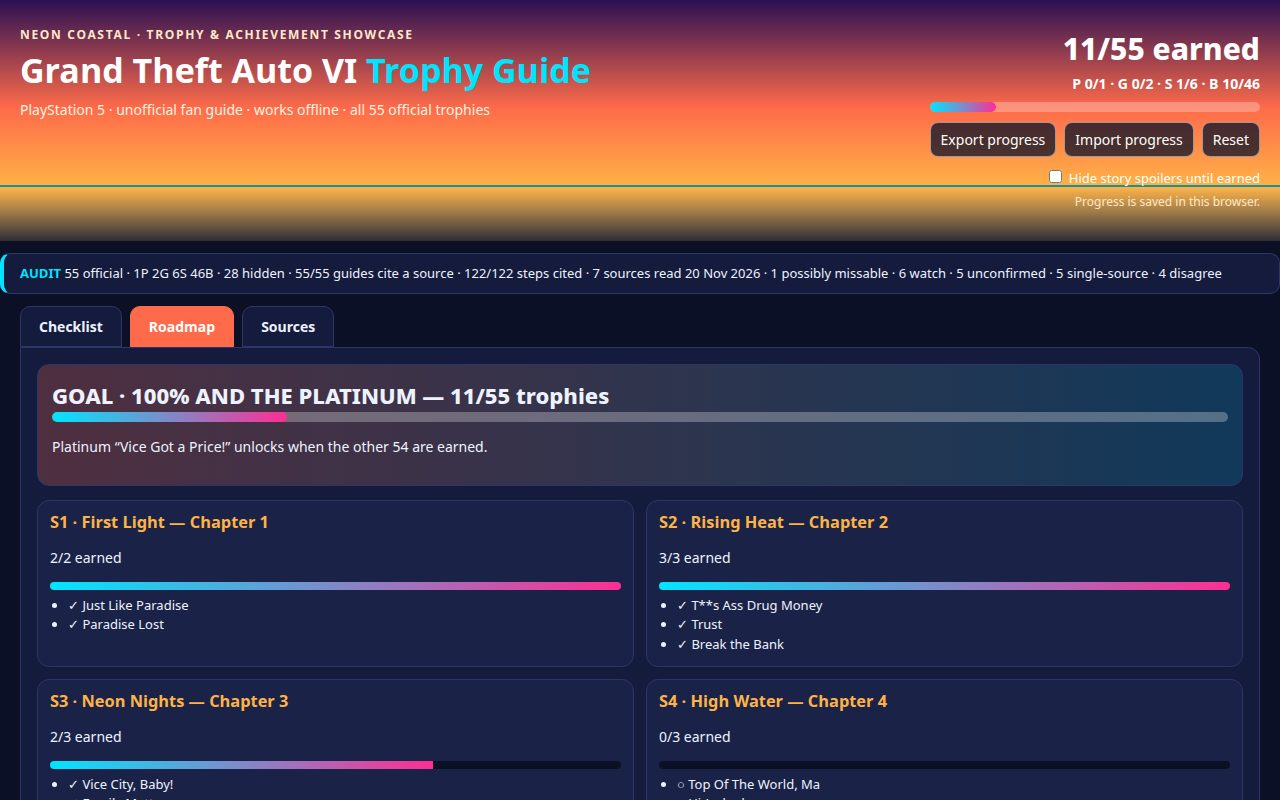
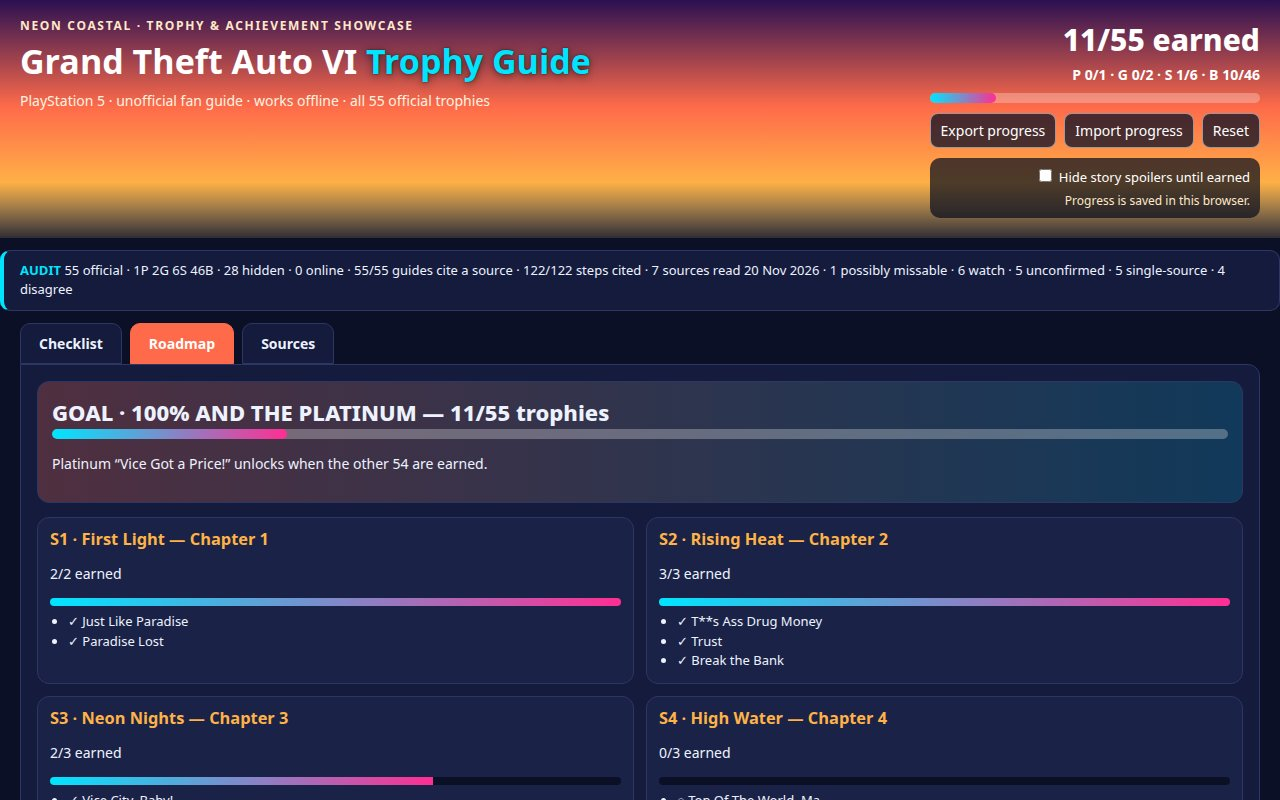
Patch final visual & UI: filter All 55, header compact, sources tanpa nomor ganda, flag summary, badge flex, README ditulis ulang

Changed region(s): [[0.0, 0.0312, 1.0, 1.0], [0.0, 0.0, 0.4688, 0.1562]]

diff --git a/app/style.css b/app/style.css
@@ -23,12 +23,11 @@ button { cursor: pointer; }
 /* hero: sunset sky, pure CSS */
 .hero { position: relative; overflow: hidden; background: linear-gradient(180deg, #2a1052 0%, var(--sun1) 45%, var(--sun2) 78%, #ffcf7d 100%); color: #fff; }
 .hero-sky { position: absolute; inset: auto 0 0 0; height: 56px;
-  background: linear-gradient(180deg, transparent, rgba(11,16,38,.85));
-  border-top: 2px solid rgba(0,229,255,.55); }
-.hero-inner { position: relative; display: flex; justify-content: space-between; gap: 24px; max-width: 1280px; margin: 0 auto; padding: 26px 20px 30px; }
+  background: linear-gradient(180deg, transparent, rgba(11,16,38,.85)); }
+.hero-inner { position: relative; display: flex; justify-content: space-between; gap: 24px; max-width: 1280px; margin: 0 auto; padding: 17px 20px 20px; }
 .kicker { margin: 0 0 6px; letter-spacing: .14em; text-transform: uppercase; font-size: 12px; font-weight: 700; color: #ffe9c9; }
 .hero h1 { font-size: 34px; }
-.hero h1 span { color: var(--cyan); }
+.hero h1 span { color: var(--cyan); text-shadow: 0 2px 8px rgba(0,0,0,.55), 0 0 2px rgba(0,0,0,.6); }
 .sub { margin: 6px 0 0; color: #fff3e0; }
 .hero-progress { min-width: 300px; text-align: right; }
 .big { font-size: 30px; font-weight: 800; margin: 0; }
@@ -38,7 +37,8 @@ button { cursor: pointer; }
 .hero-actions { display: flex; gap: 8px; justify-content: flex-end; margin-top: 10px; flex-wrap: wrap; }
 .hero-actions button, .importBtn { background: rgba(11,16,38,.75); border: 1px solid rgba(255,255,255,.5); color: #fff; border-radius: 8px; padding: 6px 10px; }
 .importBtn input { display: none; }
-.spoiler { display: block; margin-top: 10px; font-size: 13px; }
+.spoilerBox { background: rgba(10,14,30,.72); border-radius: 10px; padding: 8px 10px; margin-top: 10px; }
+.spoiler { display: block; font-size: 13px; }
 .saved { margin: 4px 0 0; font-size: 12px; color: #ffe9c9; }
 
 /* audit strip */
@@ -68,6 +68,8 @@ main { max-width: 1280px; margin: 0 auto; padding: 0 20px 24px; }
 #list li.sel { background: rgba(0,229,255,.12); border-radius: 8px; }
 #list label { display: flex; gap: 8px; align-items: flex-start; cursor: pointer; }
 #list input { margin-top: 3px; accent-color: var(--pink); }
+.tHead { display: flex; justify-content: space-between; align-items: flex-start; gap: 8px; }
+.tHead .badge { flex: none; margin-left: 0; }
 .tName { font-weight: 700; }
 .tName.done { text-decoration: line-through; color: var(--ink-dim); }
 .tDesc { font-size: 12px; color: var(--ink-dim); }
@@ -97,7 +99,7 @@ main { max-width: 1280px; margin: 0 auto; padding: 0 20px 24px; }
 .markBtn.earned { background: #2e9e5b; }
 .disBox { margin-top: 12px; padding: 10px; border: 1px dashed var(--pink); border-radius: 10px; background: rgba(255,46,147,.08); }
 .srcNote { font-size: 12px; color: var(--ink-dim); }
-#sourcesList, .srcFull { margin: 8px 0; padding-left: 22px; font-size: 13px; }
+#sourcesList, .srcFull { list-style: none; margin: 8px 0; padding-left: 0; font-size: 13px; }
 #sourcesList li, .srcFull li { margin-bottom: 5px; }
 .srcCount { color: var(--ink-dim); font-size: 12px; }
 

diff --git a/app/app.js b/app/app.js
@@ -17,9 +17,9 @@ const STAGES = {
 };
 const KIND_LABEL = { story: 'Story', activities: 'Activities', side: 'Side', collectibles: 'Collectibles', crime: 'Crime', mystery: 'Mystery', money: 'Money', goal: 'Goal' };
 const CHIPS = [
-  ['all', 'All 55'], ['story', 'Story'], ['missable', 'Missable'], ['collectibles', 'Collectibles'],
+  ['all', 'All'], ['story', 'Story'], ['missable', 'Missable'], ['collectibles', 'Collectibles'],
   ['activities', 'Activities'], ['side', 'Side'], ['crime', 'Crime'], ['mystery', 'Mystery'],
-  ['money', 'Money'], ['online', 'Online'], ['unearned', 'Unearned only'],
+  ['money', 'Money'], ['unearned', 'Unearned only'],
 ];
 
 const doc = await (await fetch('data/trophies.json')).json();
@@ -73,12 +73,20 @@ function renderHeader() {
   $('spoilerToggle').checked = spoiler;
 }
 
+function flagSummary() {
+  const names = (pred) => trophies.filter(pred).map((t) => esc(t.name)).join(', ');
+  return `<h3>Flag summary — trophies to watch</h3>
+    <p><b>Possibly missable:</b> ${names((t) => t.missable)}</p>
+    <p><b>Unconfirmed:</b> ${names((t) => t.unconfirmed)}</p>
+    <p><b>Sources disagree:</b> ${names((t) => t.disagree)}</p>`;
+}
+
 function renderAudit() {
   const a = auditNumbers();
-  const html = `<b>AUDIT</b> 55 official · 1P 2G 6S 46B · 28 hidden · 55/55 guides cite a source · ${a.cited}/${a.steps} steps cited · 7 sources read 20 Nov 2026 · ${a.missable} possibly missable · ${a.watch} watch · ${a.unconfirmed} unconfirmed · ${a.single} single-source · ${a.disagree} disagree`;
+  const html = `<b>AUDIT</b> 55 official · 1P 2G 6S 46B · 28 hidden · 0 online · 55/55 guides cite a source · ${a.cited}/${a.steps} steps cited · 7 sources read 20 Nov 2026 · ${a.missable} possibly missable · ${a.watch} watch · ${a.unconfirmed} unconfirmed · ${a.single} single-source · ${a.disagree} disagree`;
   $('audit').innerHTML = html;
   const box = $('auditBox');
-  if (box) box.innerHTML = html;
+  if (box) box.innerHTML = flagSummary();
 }
 
 function chipCount(kind) {
@@ -131,8 +139,7 @@ function renderList() {
       <label>
         <input type="checkbox" data-id="${t.id}" ${done ? 'checked' : ''}>
         <span>
-          <span class="tName${done ? ' done' : ''} ${hidden ? 'hiddenName' : ''}">${name}</span>
-          <span class="badge ${t.grade}">${t.grade.toUpperCase()}</span><br>
+          <span class="tHead"><span class="tName${done ? ' done' : ''} ${hidden ? 'hiddenName' : ''}">${name}</span><span class="badge ${t.grade}">${t.grade.toUpperCase()}</span></span><br>
           <span class="tDesc">${desc}</span><br>${flagHtml(t)}
         </span>
       </label>
@@ -151,6 +158,15 @@ function renderList() {
       selected = Number(box.dataset.id);
       renderAll();
     }));
+  const list = $('list');
+  const sel = list.querySelector('li.sel');
+  if (sel) {
+    const r = sel.getBoundingClientRect();
+    const lr = list.getBoundingClientRect();
+    if (r.top < lr.top || r.bottom > lr.bottom) {
+      list.scrollTop = r.top - lr.top + list.scrollTop;
+    }
+  }
 }
 
 function renderDetail() {

diff --git a/app/index.html b/app/index.html
@@ -4,6 +4,7 @@
 <meta charset="utf-8">
 <meta name="viewport" content="width=device-width, initial-scale=1">
 <title>Neon Coastal Trophy Guide — GTA VI (PS5)</title>
+<link rel="icon" href="data:,">
 <link rel="stylesheet" href="style.css">
 </head>
 <body>
@@ -24,8 +25,10 @@
         <label class="importBtn">Import progress <input id="importFile" type="file" accept="application/json"></label>
         <button id="resetBtn" type="button">Reset</button>
       </div>
-      <label class="spoiler"><input id="spoilerToggle" type="checkbox"> Hide story spoilers until earned</label>
-      <p class="saved">Progress is saved in this browser.</p>
+      <div class="spoilerBox">
+        <label class="spoiler"><input id="spoilerToggle" type="checkbox"> Hide story spoilers until earned</label>
+        <p class="saved">Progress is saved in this browser.</p>
+      </div>
     </div>
   </div>
 </header>

diff --git a/README.md b/README.md
@@ -10,11 +10,11 @@ A neon coastal dusk theme: a sunset beach city, arcade racing achievements, stun
 
 ## What it does
 
-- **Checklist** of all 55 official trophies with their official names, descriptions and grades, each with a guide in our own words that cites its sources.
+- **Checklist** of all 55 official trophies with their official names, descriptions and grades, each with a guide in our own words that cites its sources by name.
 - **Tracker**: progress saved in the browser, export to a file and import back.
-- **Filters** by kind (story, missable, collectibles, activities, online) and a **spoiler setting** that hides story trophy names and descriptions until earned.
-- **Roadmap** to the platinum and **missable flags**, built from the official descriptions.
-- **Sources panel**: every guide step cites its sources by name.
+- **Filters** by kind (story, missable, collectibles, activities, side, crime, mystery, money) and a **spoiler setting** that hides story trophy names and descriptions until earned.
+- **Roadmap** to the platinum in seven stages (S1 First Light through S7 Open Water) with **missable flags** and a flag summary, built from the official descriptions.
+- **Sources panel**: every one of the 122 guide steps cites its sources by name — no external links anywhere in the app. An audit strip up top shows the counts: 55 official, 1P 2G 6S 46B, 28 hidden, 0 online, 122/122 steps cited.
 
 ## Run it
 
